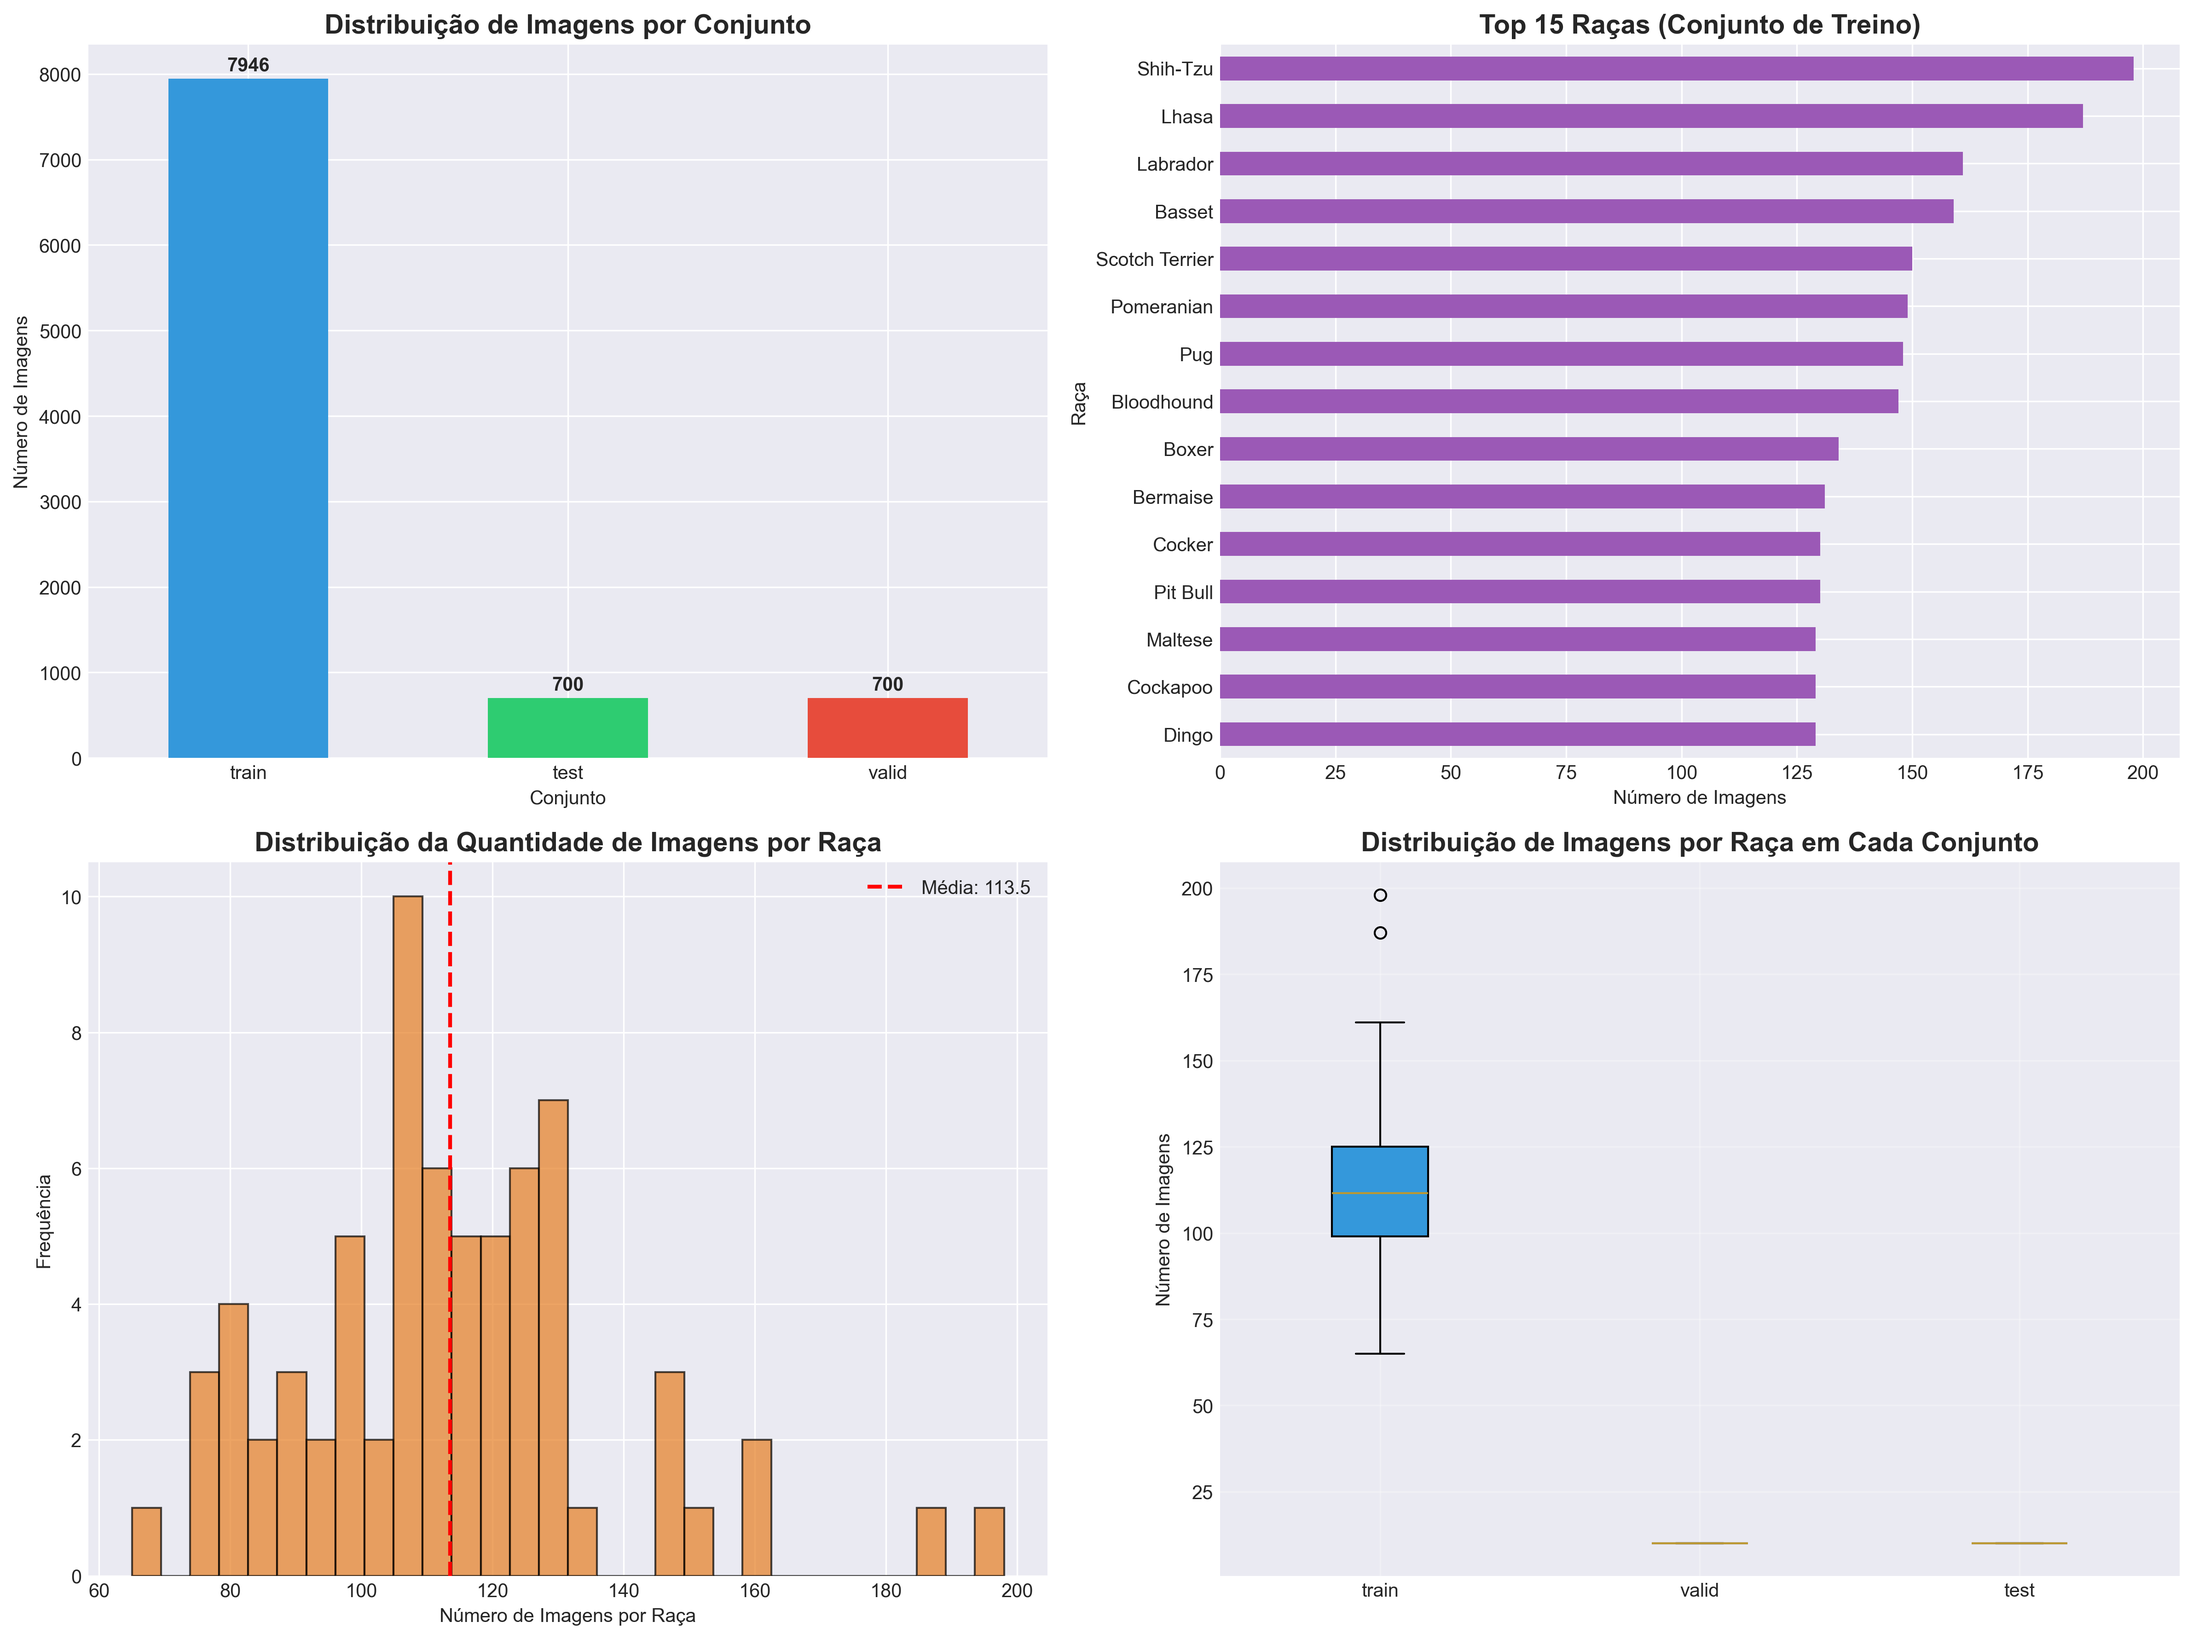
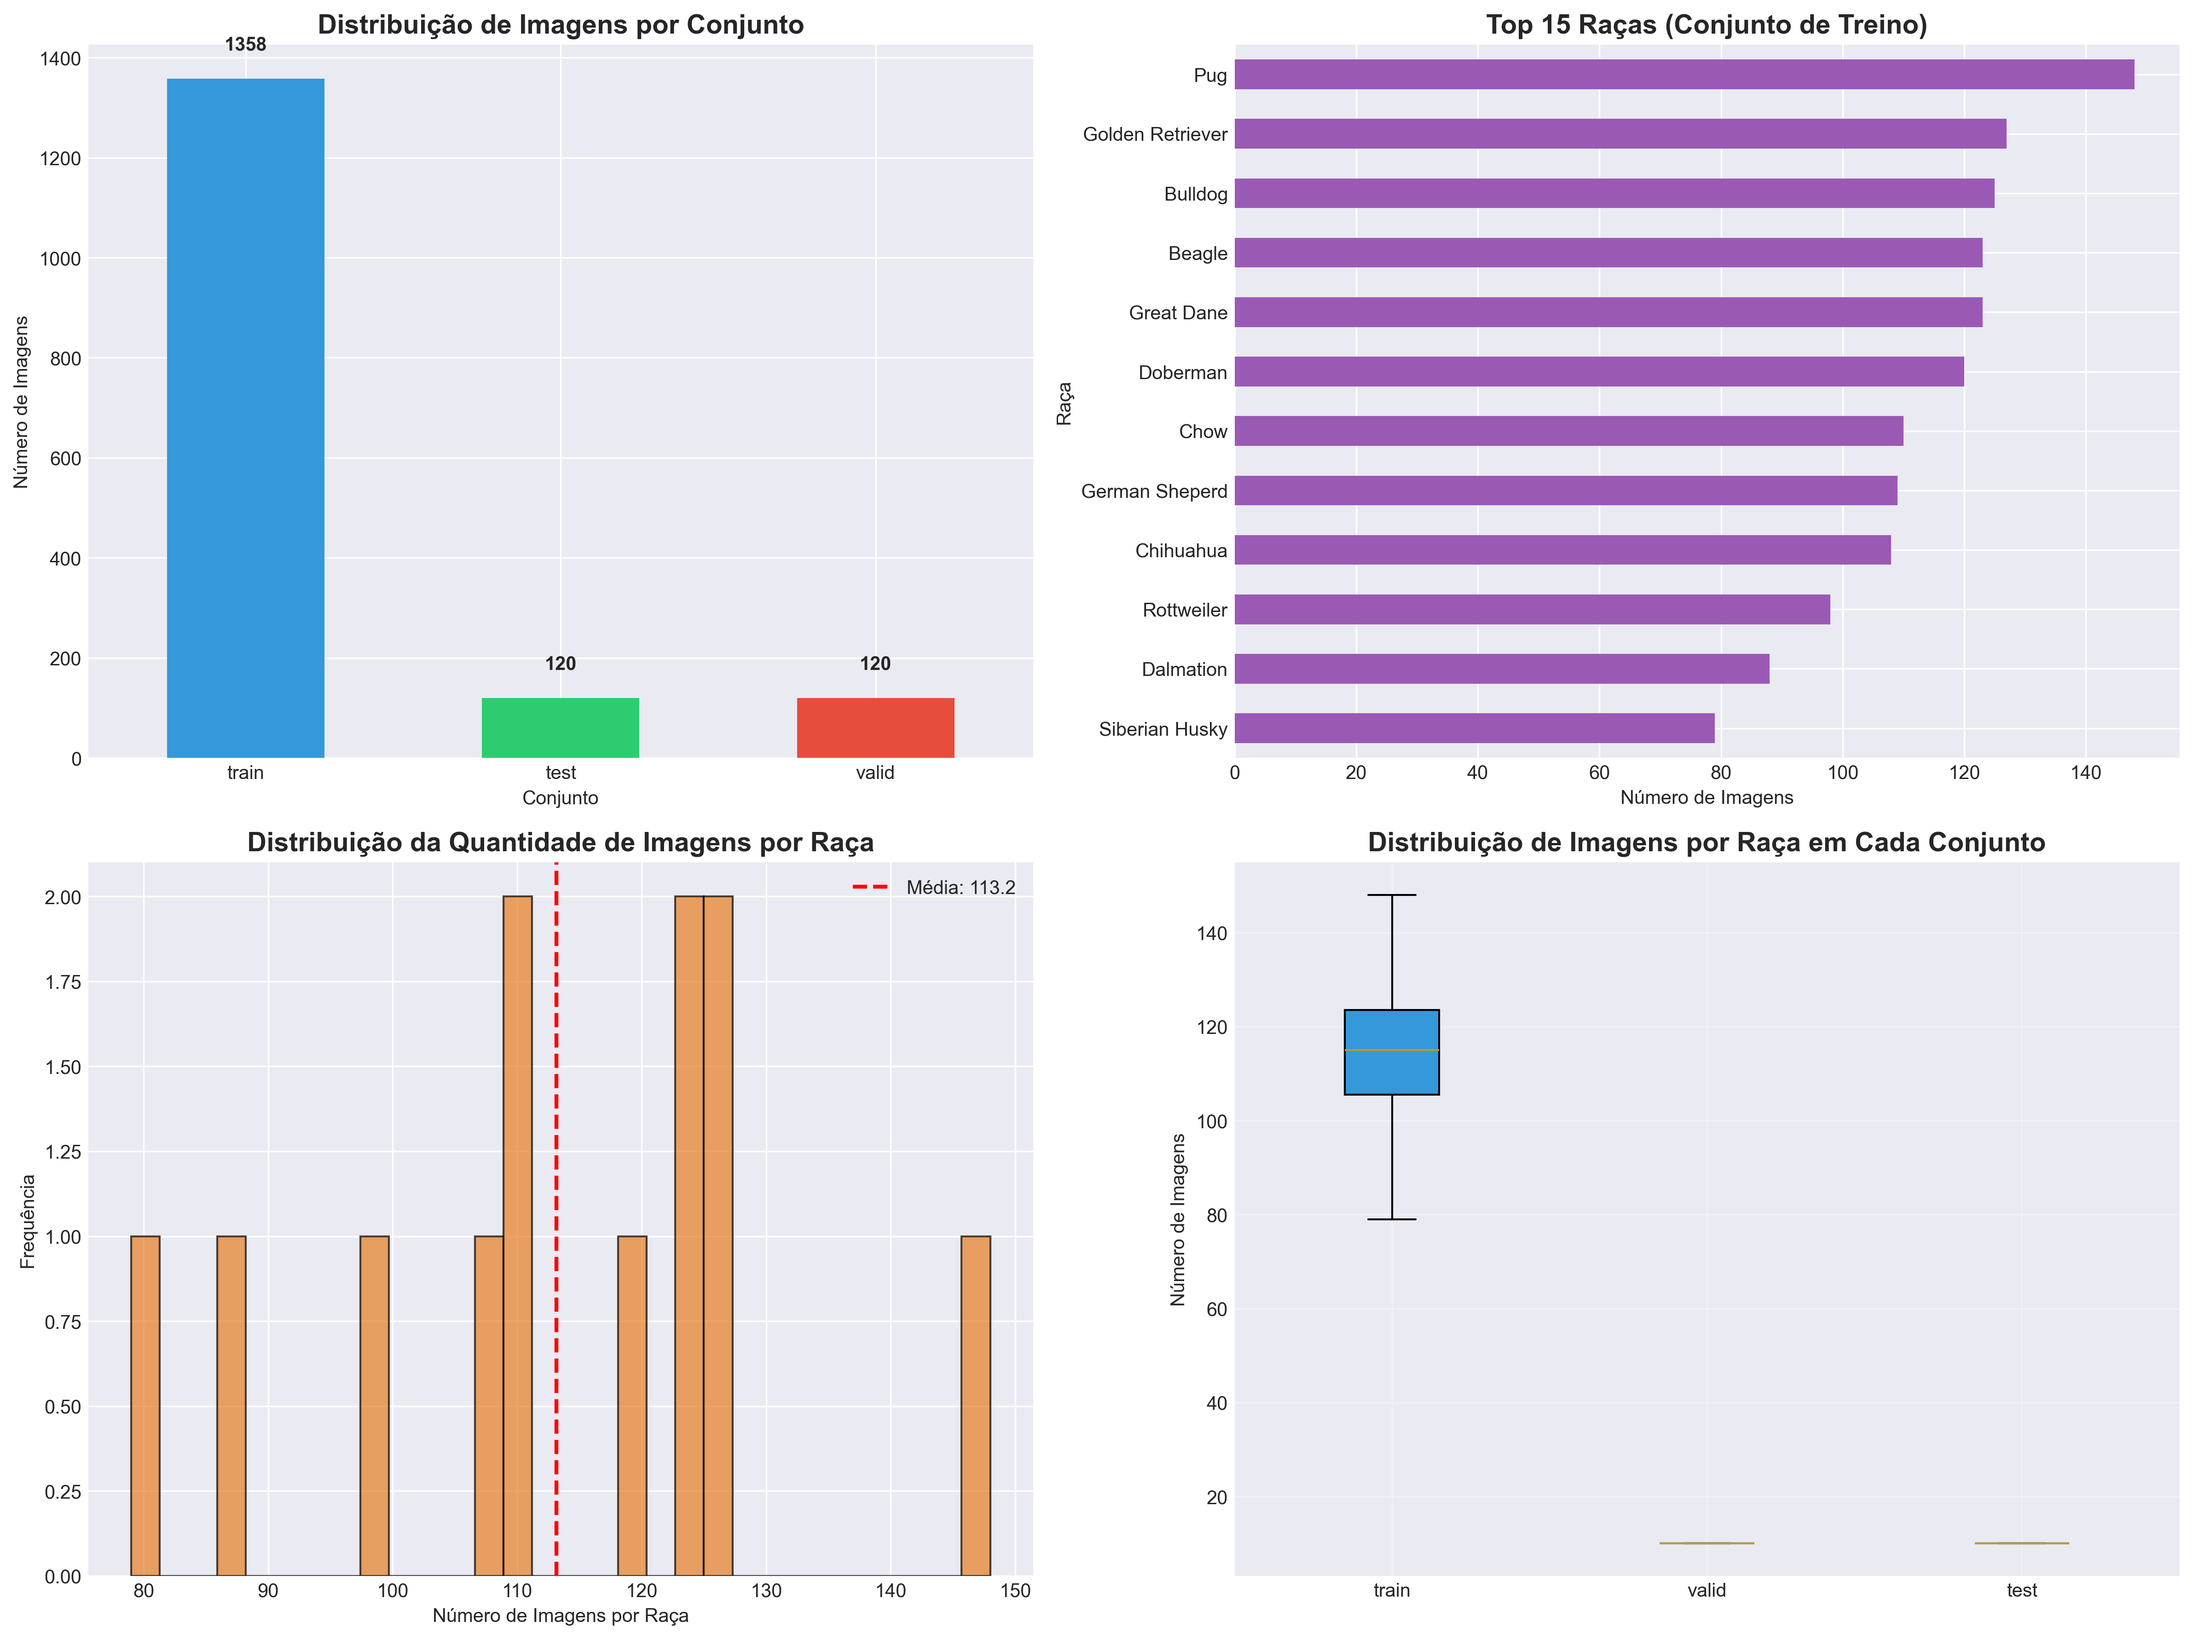
docs: atualizar visualizações da análise exploratória para 12 raças

diff --git a/scripts/01_exploratory_analysis.py b/scripts/01_exploratory_analysis.py
@@ -18,8 +18,10 @@ plt.style.use('seaborn-v0_8-darkgrid')
 sns.set_palette("husl")
 
 # Diretório base
-BASE_DIR = Path(__file__).parent / "archive"
-CSV_PATH = BASE_DIR / "dogs.csv"
+BASE_DIR = Path(__file__).parent.parent / "data" / "dataset"
+CSV_PATH = Path(__file__).parent.parent / "data" / "dataset" / "dogs.csv"
+OUTPUT_DIR = Path(__file__).parent.parent / "outputs"
+OUTPUT_DIR.mkdir(exist_ok=True)
 
 def load_dataset_info():
     """Carrega e analisa o CSV com informações do dataset"""
@@ -27,8 +29,22 @@ def load_dataset_info():
     print("ANÁLISE EXPLORATÓRIA DO DATASET DE CACHORROS")
     print("=" * 80)
     
+    # Define as 12 raças selecionadas para o projeto
+    selected_breeds = [
+        'Siberian Husky', 'Pug', 'Dalmation', 'German Sheperd',
+        'Golden Retriever', 'Beagle', 'Bulldog', 'Chihuahua',
+        'Doberman', 'Great Dane', 'Rottweiler', 'Chow'
+    ]
+    
     df = pd.read_csv(CSV_PATH)
-    print(f"\n📊 Total de imagens: {len(df)}")
+    print(f"\n📊 Total de imagens original: {len(df)}")
+    print(f"🐕 Raças originais: {df['labels'].nunique()}")
+    
+    # Filtra apenas as 12 raças selecionadas
+    df = df[df['labels'].isin(selected_breeds)].copy()
+    print(f"\n⚠  Filtrando para 12 raças selecionadas...")
+    print(f"📊 Total de imagens filtradas: {len(df)}")
+    print(f"🐕 Raças selecionadas: {df['labels'].nunique()}")
     print(f"📁 Colunas: {list(df.columns)}")
     
     return df
@@ -114,8 +130,8 @@ def plot_class_distribution(df):
     ax.grid(True, alpha=0.3)
     
     plt.tight_layout()
-    plt.savefig('class_distribution.png', dpi=300, bbox_inches='tight')
-    print("   ✓ Salvo: class_distribution.png")
+    plt.savefig(OUTPUT_DIR / 'class_distribution.png', dpi=300, bbox_inches='tight')
+    print(f"   ✓ Salvo: {OUTPUT_DIR / 'class_distribution.png'}")
     plt.show()
 
 def analyze_image_properties(df):
@@ -185,8 +201,8 @@ def visualize_sample_images(df, n_samples=12):
             axes[idx].axis('off')
     
     plt.tight_layout()
-    plt.savefig('sample_images.png', dpi=300, bbox_inches='tight')
-    print("   ✓ Salvo: sample_images.png")
+    plt.savefig(OUTPUT_DIR / 'sample_images.png', dpi=300, bbox_inches='tight')
+    print(f"   ✓ Salvo: {OUTPUT_DIR / 'sample_images.png'}")
     plt.show()
 
 def check_data_integrity(df):
